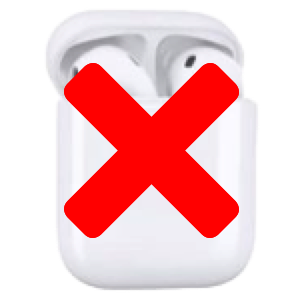
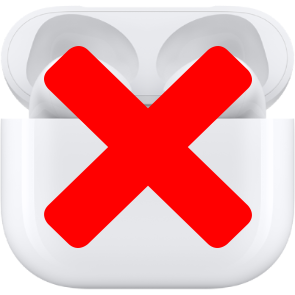
Updated images, migrated to bluetoothconnector for everything, updated readme
Updated images to use the latest version of AirPods
Removed (some of the) legacy parsing of system_profiler, now it just uses the bluetoothconnector utility for connection status and connect/disconnect status
Updated the readme to remove several old references

diff --git a/bluetooth_status_parser_utils.py b/bluetooth_status_parser_utils.py
@@ -10,43 +10,21 @@ STATUS_DISCONNECTED = "disconnected"
 STATUS_UNCONFIGURED = "unconfigured"
 
 def get_connection_status(assume_disconnected=False):
-    mac = os.getenv('AIRPODS_MAC')
+    mac = get_configured_mac()
+    
+    if not is_valid_mac(mac):
+        return STATUS_UNCONFIGURED
 
-    # New technique for extracting MAC during config uses dashes instead of colons, but this system_profiler output uses colons, so fix that here
-    mac = mac.replace("-", ":").upper()
+    initial_status = os.popen('/bin/bash -c "/opt/homebrew/bin/BluetoothConnector --status "' + mac).read()
 
-    paired_bt_devices_header = "Paired Bluetooth Devices:"
-    paired_bt_header_len = len(paired_bt_devices_header)
-
-    devices = os.popen('/bin/bash -c "system_profiler SPBluetoothDataType"').read()
-    start_search_index = devices.find("Paired Bluetooth Devices:") + paired_bt_header_len + 1
-    paired_devices = devices[start_search_index:]
-
-    re_mac = re.escape(mac)
-    mac_match_re = rf"Address: ({re_mac})"
-    mac_found = len(re.findall(mac_match_re, paired_devices)) > 0
-
-    status = STATUS_DISCONNECTED if assume_disconnected else STATUS_NOT_FOUND
-
-    if mac_found:
-        connected_regex = rf"Address: ({re_mac})\n\s*(Connected:) (Yes|No)"
-        status_match_iter = re.finditer(connected_regex, paired_devices, re.MULTILINE)
-
-        # When paired but not connected, we don't see "Connected: No" like I think we used to in older versions of 
-        # macOS (based on how the old logic here was written)
-        # Since we got into this mac_found block, the new "fall back" status becomes "disconnected" instead of "not found"
-        status = STATUS_DISCONNECTED
-        
-        for match_num, match in enumerate(status_match_iter):
-            # group(0) is the full match, index 1 is the MAC, 2 is "Connected" (if present), 3 is "Yes" or "No" (if present)
-            # Note that if we got into this 'if', then groups 2 and 3 should be present
-            if len(match.groups()) > 2 and match.group() != '' and match.group(1) == mac:
-                if match.group(3) == "Yes":
-                    status = STATUS_CONNECTED
-                else:
-                    status = STATUS_DISCONNECTED
-
-    return status
+    if 'Disconnected' in initial_status:
+        return STATUS_DISCONNECTED
+    elif 'Connected' in initial_status:
+        return STATUS_CONNECTED
+    else:
+        # Status would be "Not paired to device"
+        return STATUS_NOT_FOUND
+    
 
 def is_failed_status(status):
     return status != STATUS_CONNECTED and status != STATUS_DISCONNECTED
@@ -71,17 +49,8 @@ def create_menu_json(title, subtitle, arg, icon_path):
 def is_valid_mac(mac):
     return mac != None and mac != ""
 
-def get_configured_mac(format_upper_with_colons=False):
-    # New technique for extracting MAC during config uses dashes instead of colons, 
-    # but system_profiler output uses colons, so optionally format the MAC to adhere
-    if format_upper_with_colons:
-        mac = os.getenv('AIRPODS_MAC')
-        if is_valid_mac(mac):
-            return mac.replace("-", ":").upper()
-        else:
-            return None
-    else:
-        return os.getenv('AIRPODS_MAC')
+def get_configured_mac():
+    return os.getenv('AIRPODS_MAC')
 
 def is_invalid_mac_configured():
     mac = get_configured_mac()

diff --git a/get_connection_status.py b/get_connection_status.py
@@ -24,10 +24,10 @@ if is_invalid_mac_configured():
     # We can't show an error status here because this is triggered for the initial config too
     sys.exit()
 
-mac = get_configured_mac(True)
+mac = get_configured_mac()
 
-status = get_connection_status(False)          
-    
+status = get_connection_status(False)
+
 title = "Cancel (AirPods not found)"
 icon_path = ERROR_ICON_PATH
 

diff --git a/README.md b/README.md
@@ -1,32 +1,46 @@
-# [Alfred AirPods Connector](https://www.packal.org/workflow/airpods-connector)
+# [Alfred AirPods Connector](https://github.com/mikeoertli/alfred-airpods-connector)
 
-> This [Alfred v4](https://www.alfredapp.com/) workflow helps you to quickly connect to your AirPods using the Alfred search or a hotkey.
+<p align="center">
+<img width="200" alt="Alfred Airpods Connector" src="icon.png"/>
+</p>
 
-###### See it in action
+This [Alfred v4](https://www.alfredapp.com/) workflow helps you to quickly connect to your AirPods using the Alfred search or a hotkey.
+
+Check out the [Raycast variant](https://github.com/mikeoertli/raycast-airpods-connector) too, if you use Raycast instead/also.
+
+## Demo
+
 ![Workflow demo](https://github.com/mariuskiessling/alfred-airpods-connector/raw/master/demo.gif "Workflow demo")
 
 ## Installation
-1) Install the `BluetoothConnector` utility using
-   ```
+
+1. Using [`brew`](https://brew.sh/), install/update `BluetoothConnector` utility using
+
+   ```shell
    brew install bluetoothconnector
    ```
-   Make sure to have [`brew`](https://brew.sh/) installed. This will install the latest version of BluetoothConnector. Unfortunately BluetoothConnector is not @-versioned. Thus, make sure that brew installs version `2.0.0+` of BluetoothConnector or upgrade using
-   ```
-   brew upgrade bluetoothconnector
-   ```
-   in case you update from an older version of this workflow.
 
-2) Download the workflow file [↗ here](https://github.com/packal/repository/raw/master/de.mariuskiessling.alfred-airpods-connector/airpods_connector.alfredworkflow) and import it.
+   or
+
+   ```shell
+   brew update && brew upgrade bluetoothconnector
+   ```
+
+2. Download the workflow file [↗ here](https://github.com/mikeoertli/alfred-airpods-connector/releases) and import it into Alfred.
 
 It is recommended to have `HOMEBREW_PREFIX` defined, for M1 Macs this will be `/opt/homebrew/`.
 
-###### In case of errors
+## Debug
+
 If you encounter any errors running the workflow double-check the steps above and test whether you have Python 3.x installed on your system (Python 2.x is no longer compatible with this workflow).
 
 ## Usage
+
 On your first run, you have to select the bluetooth device that are your AirPods. Once you have done this you can use the **`airp`** keyword to connect / disconnect your AirPods. Whenever you want to change the device you can use the **`airp config`** keyword to select a new bluetooth device.
 
 By default, this workflow also offers the ability to trigger a connect / disconnect action using a hotkey. The default hotkey is **`⌃ Ctrl + ⇧ Shift + ⌘ Cmd + A`**.
 
-## Acknowledgments 
+## Acknowledgments
+
+* Big thanks to Marius Kießling ([@mariuskiessling](https://github.com/mariuskiessling/alfred-airpods-connector)) for creating the original workflow
 * Big thanks to Daniel Schäfer ([@JohnAZoidberg](https://github.com/JohnAZoidberg)) for helping design the RegEx used in this workflow.
